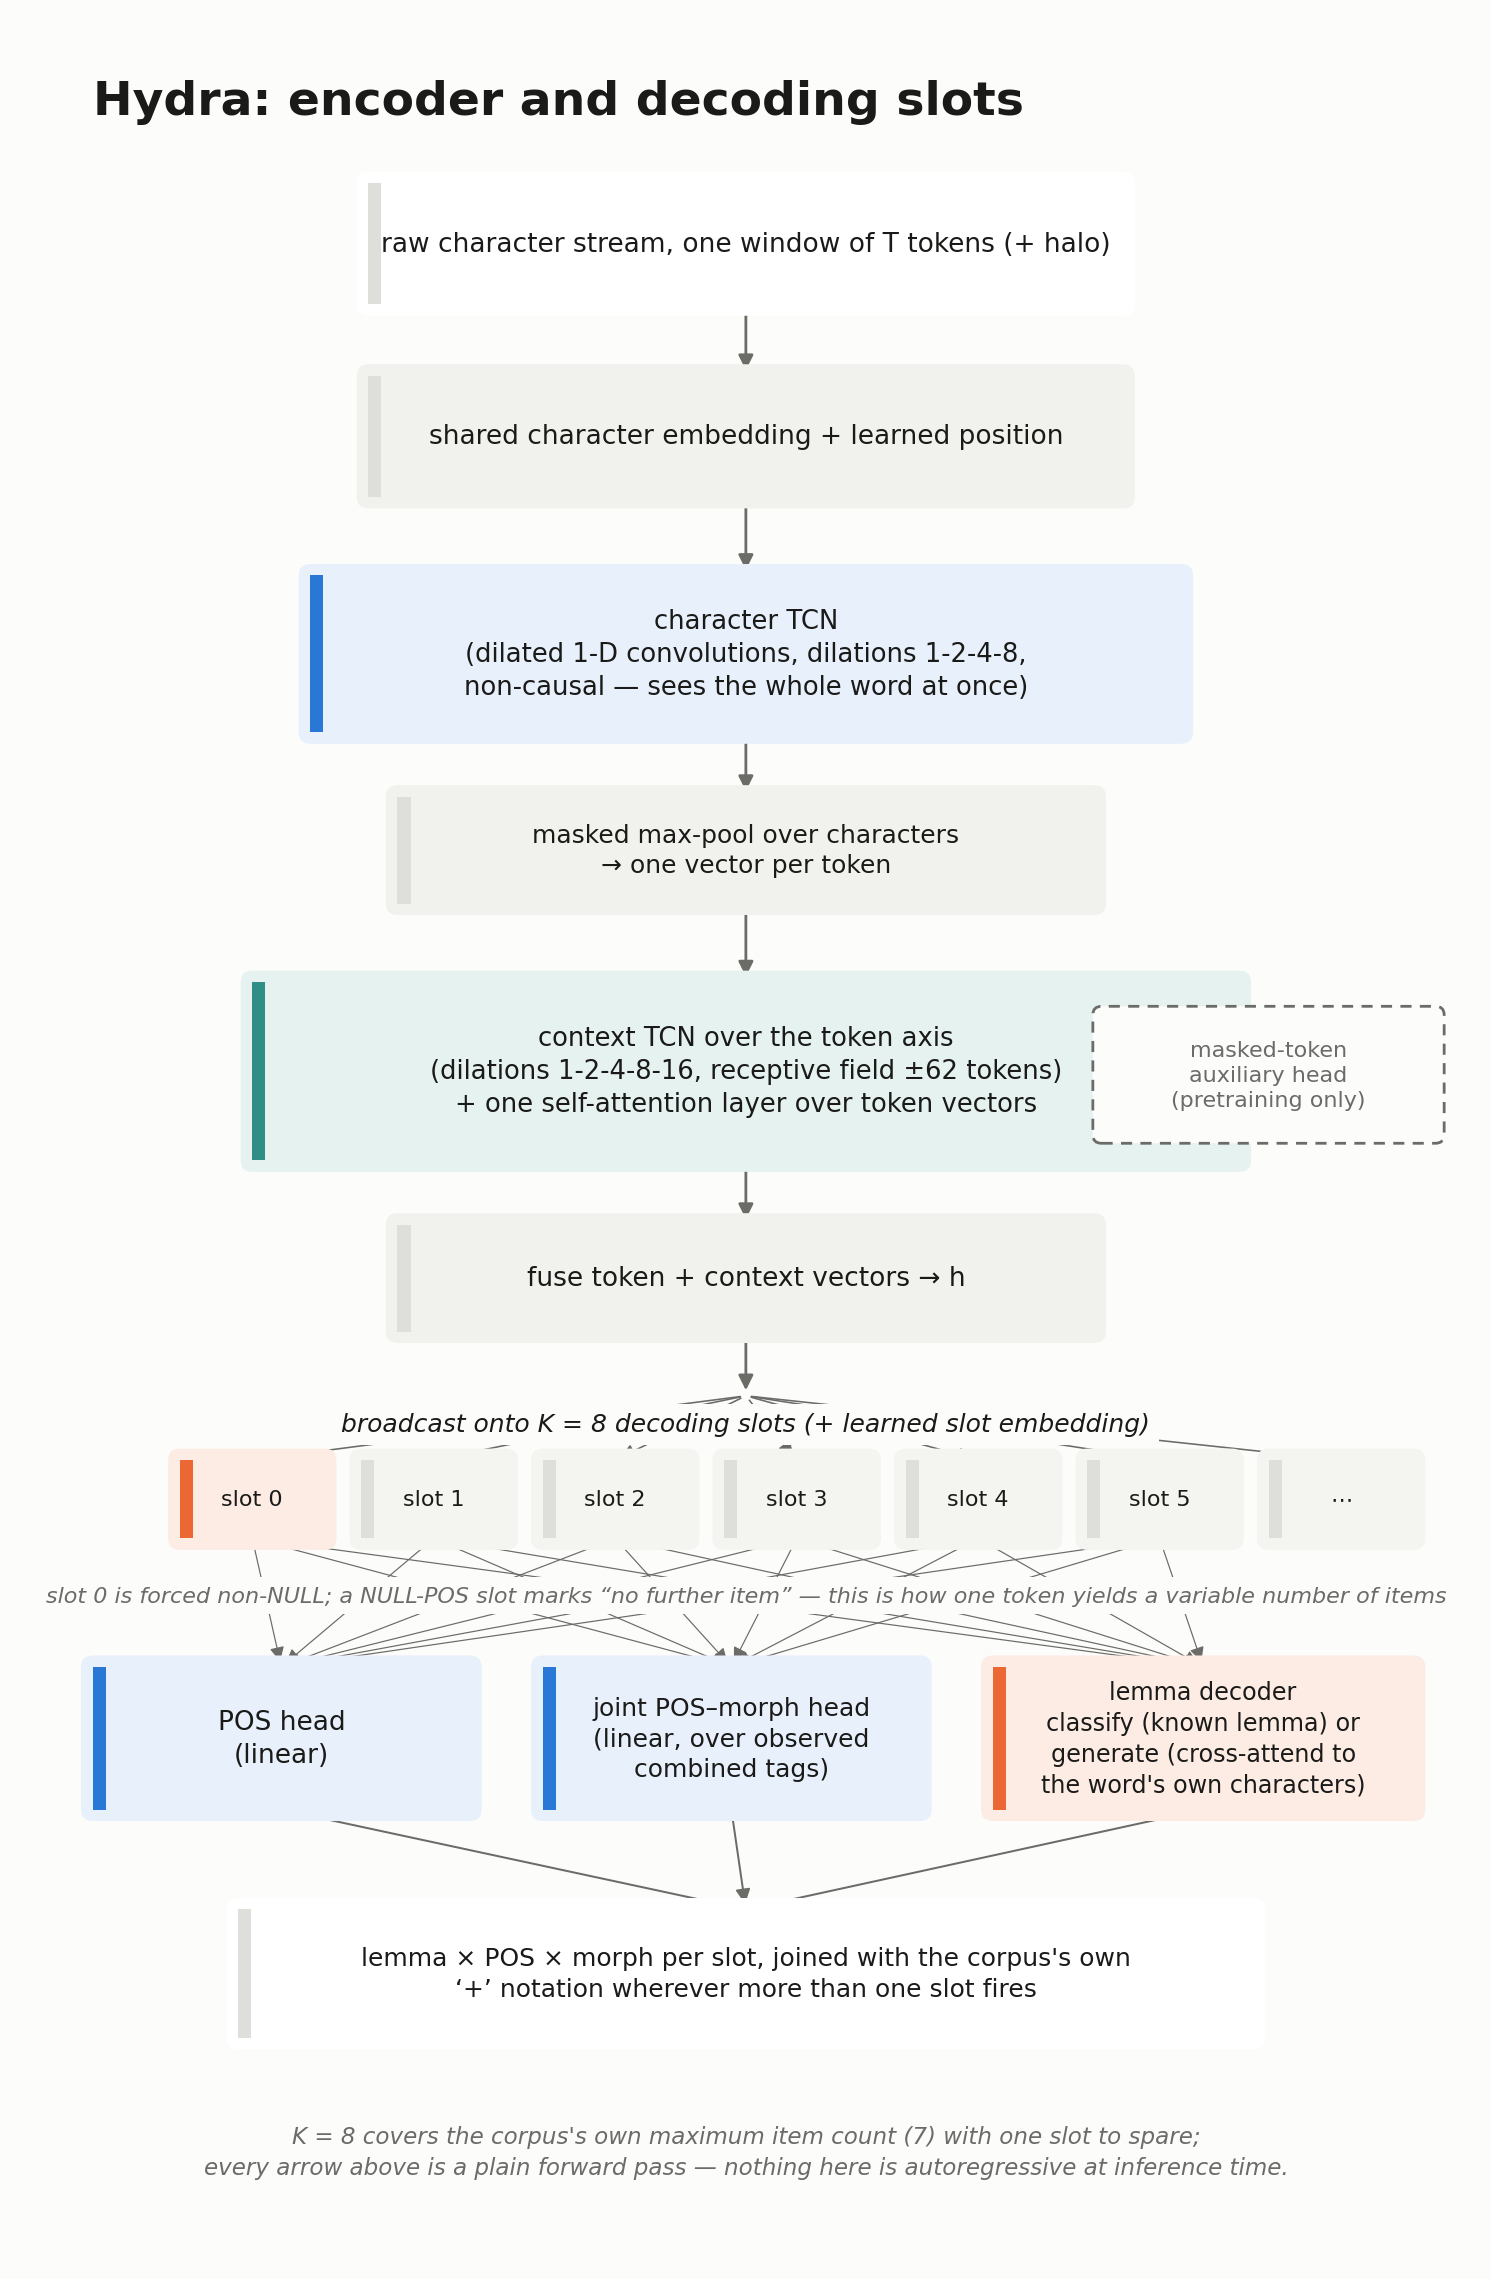
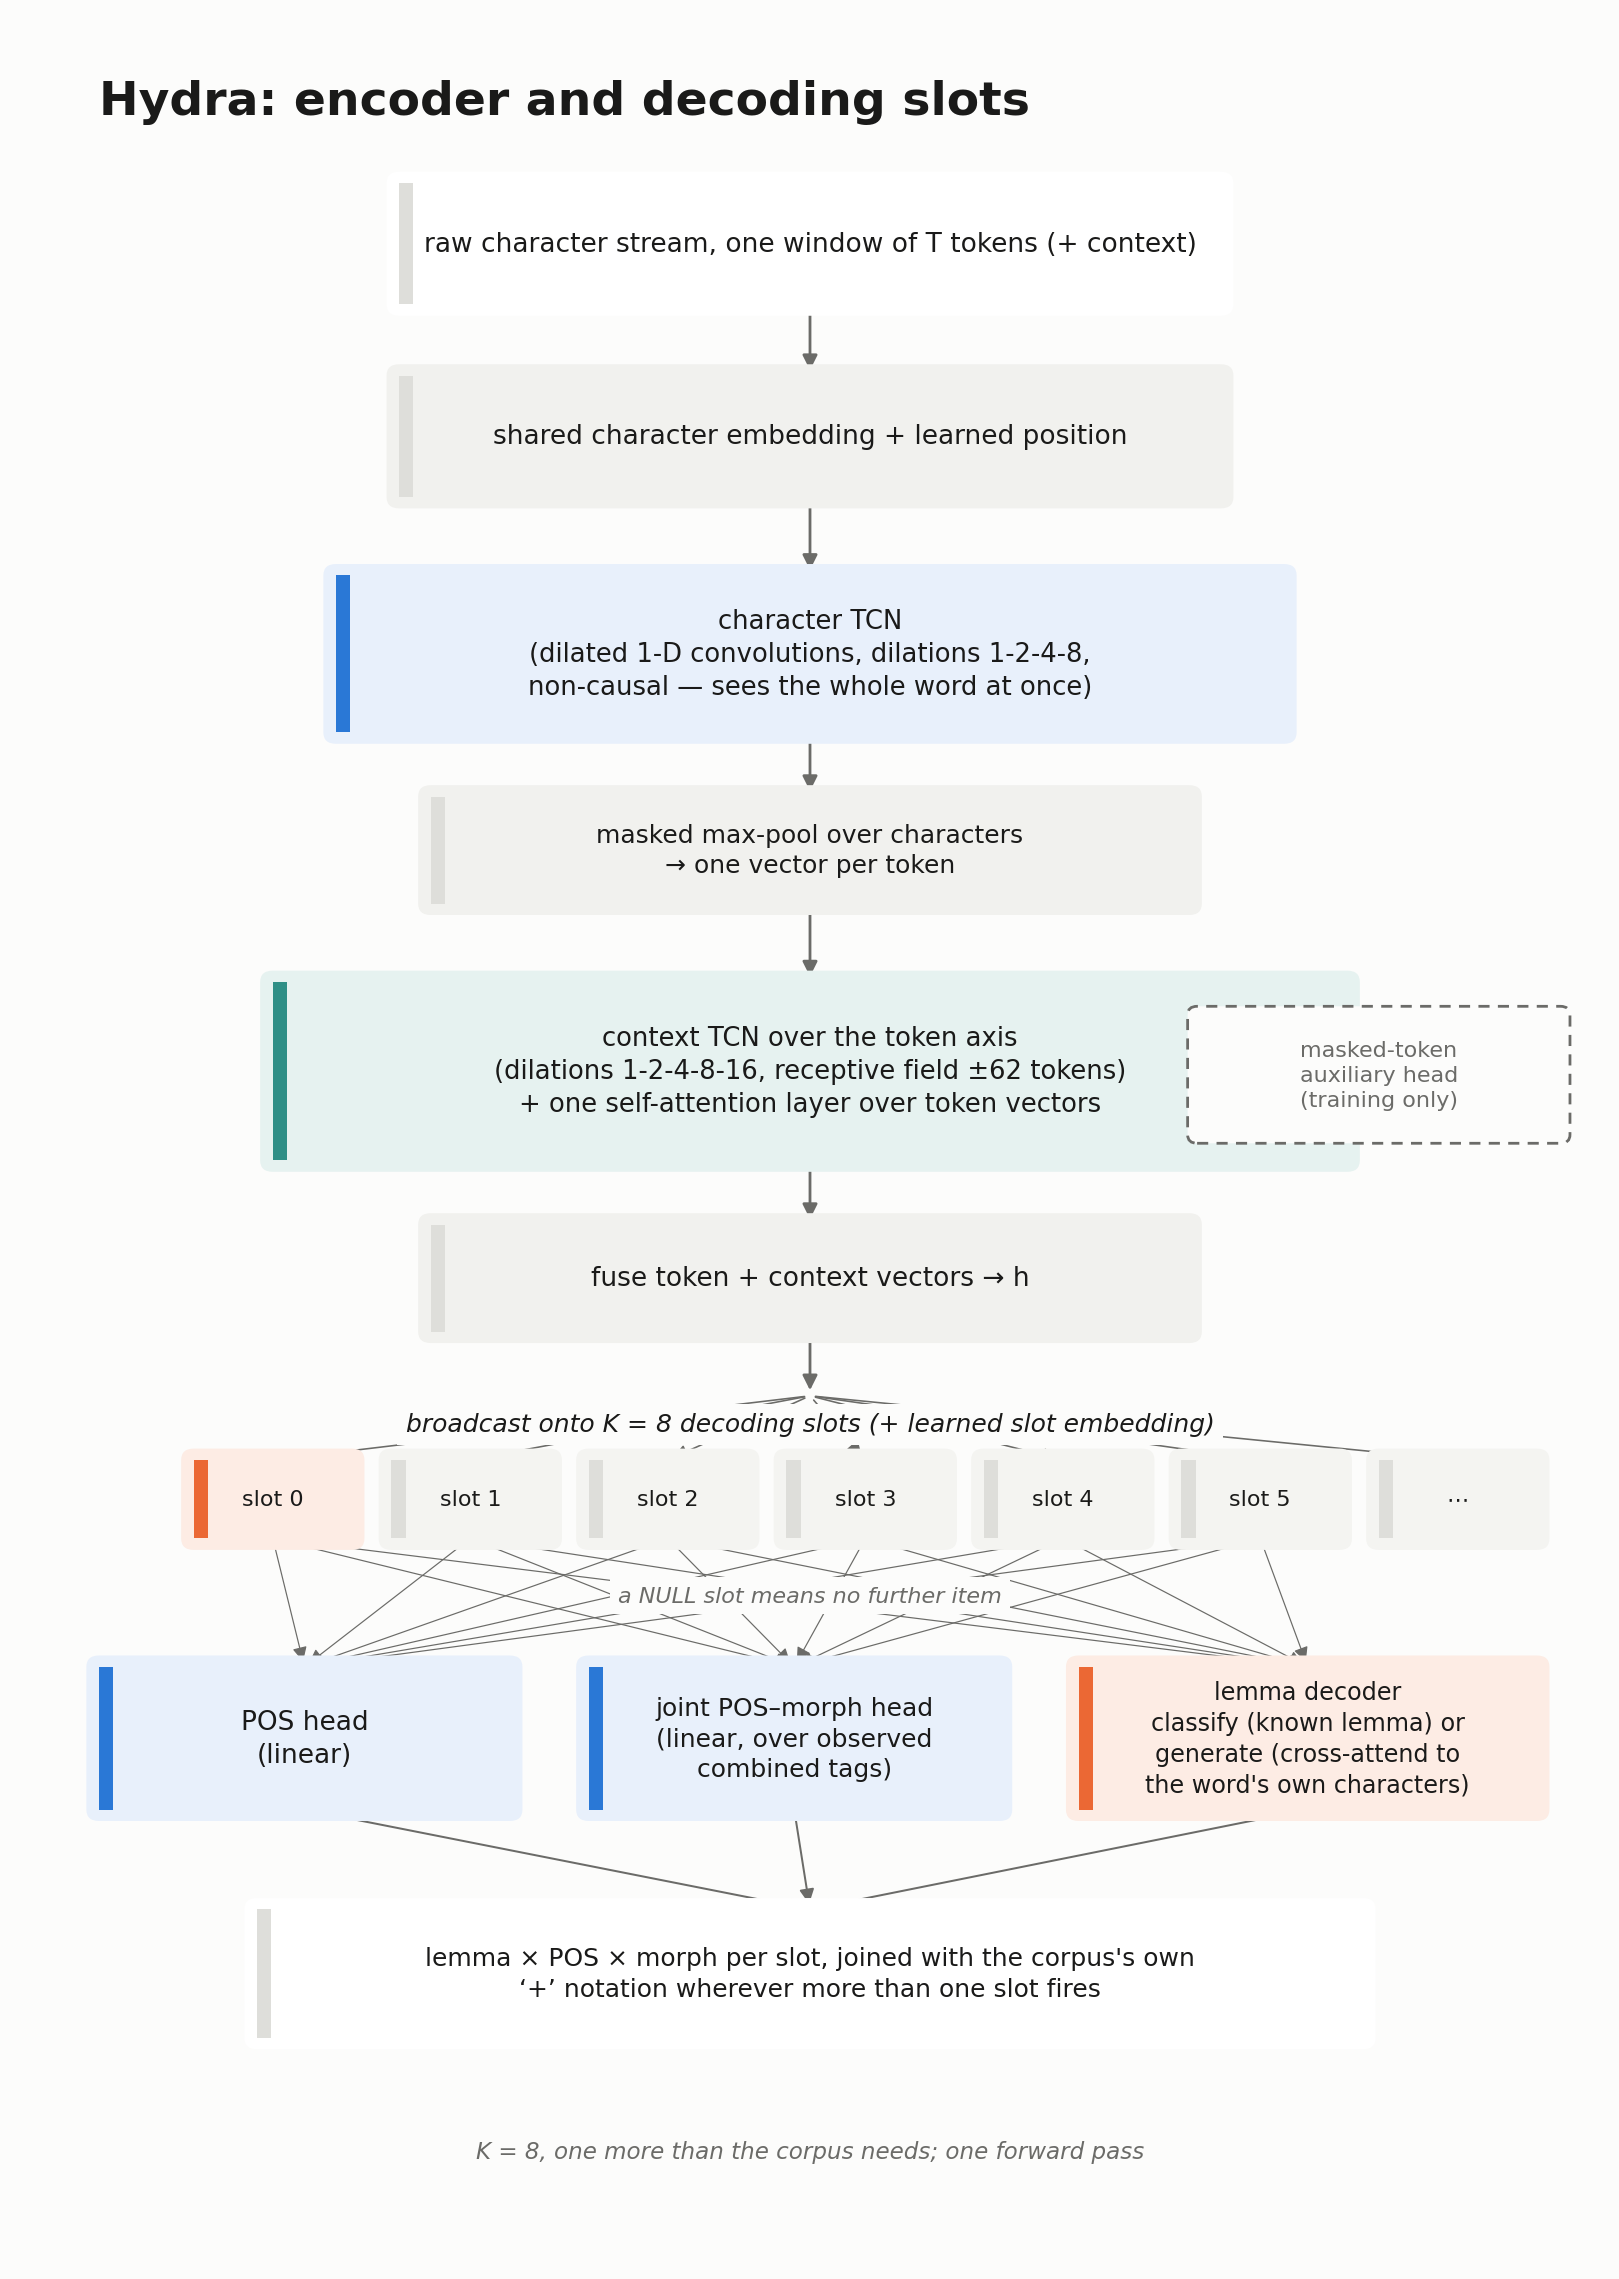
Refresh the README's figures, and a script so they stay refreshed
The three images under docs/figures were copied by hand in October and then
drifted from the drawings. The architecture one still labelled the
masked-token head "pretraining only" long after that was corrected, and the
other two were equally stale, because nothing connected the two directories.

tools/sync_readme_figures.py is that connection. It reads the list of what
to copy out of README.md itself, so a figure added to the README is picked
up without editing the script, and it exits non-zero if the README embeds
something the source directory cannot supply.

The architecture caption also said each slot has its own three heads. The
slots share them: one lemma head, one part-of-speech head, one joint tag
head, each reading every slot.

diff --git a/tools/sync_readme_figures.py b/tools/sync_readme_figures.py
@@ -1,0 +1,68 @@
+"""Refresh the figures README.md embeds from the directory that draws them.
+
+    python tools/sync_readme_figures.py ../journal/figures
+
+The three images under docs/figures are copies. They were taken by hand once
+and then drifted: the architecture figure in the README still labelled the
+masked-token head "pretraining only" weeks after the drawing had been
+corrected, because nothing connected the two directories. This script is that
+connection, and it reads the list of what to copy out of README.md itself, so
+a figure added to the README is picked up without editing anything here.
+
+Exits non-zero if the README asks for a figure the source directory does not
+have, which is the case worth catching: a README that embeds a file nobody
+generates any more.
+"""
+from __future__ import annotations
+
+import filecmp
+import re
+import shutil
+import sys
+from pathlib import Path
+
+ROOT = Path(__file__).resolve().parents[1]
+README = ROOT / "README.md"
+DEST = ROOT / "docs" / "figures"
+
+
+def wanted() -> list[str]:
+    """Every docs/figures/*.png the README embeds, in the order it uses them."""
+    text = README.read_text(encoding="utf-8")
+    return list(dict.fromkeys(re.findall(r"\(docs/figures/([^)]+\.png)\)", text)))
+
+
+def main(argv: list[str]) -> int:
+    if len(argv) != 1:
+        print(__doc__.strip().splitlines()[2].strip(), file=sys.stderr)
+        return 2
+    src = Path(argv[0]).expanduser().resolve()
+    if not src.is_dir():
+        print(f"not a directory: {src}", file=sys.stderr)
+        return 2
+
+    DEST.mkdir(parents=True, exist_ok=True)
+    missing, copied, same = [], [], []
+    for name in wanted():
+        source = src / name
+        target = DEST / name
+        if not source.exists():
+            missing.append(name)
+            continue
+        if target.exists() and filecmp.cmp(source, target, shallow=False):
+            same.append(name)
+            continue
+        shutil.copy2(source, target)
+        copied.append(name)
+
+    for name in copied:
+        print(f"updated docs/figures/{name}")
+    for name in same:
+        print(f"unchanged docs/figures/{name}")
+    for name in missing:
+        print(f"MISSING in {src}: {name}", file=sys.stderr)
+    return 1 if missing else 0
+
+
+if __name__ == "__main__":
+    raise SystemExit(main(sys.argv[1:]))

diff --git a/README.md b/README.md
@@ -76,7 +76,7 @@ and a character generator builds one from the surface, and a confidence
 threshold picks between them. A spelling the model has never met still gets a
 lemma.
 
-![Hydra's encoder and decoding slots: a shared character and context encoder feeds a fixed bank of K = 8 slots, each with its own lemma, part-of-speech and morphology head.](docs/figures/architecture.png)
+![Hydra's encoder and decoding slots: a shared character and context encoder feeds a fixed bank of K = 8 slots, every one of them read by the same three heads — lemma, part of speech, and the joint part-of-speech-and-morphology tag.](docs/figures/architecture.png)
 
 Two further objectives are optional and switch on from the config. A
 masked-token auxiliary lets unannotated transcription contribute to training,
@@ -433,7 +433,9 @@ and on tokens unseen in training (OOV), plus mean lemma Levenshtein distance.
 hydra/          the package: config, vocab, data, model, losses, metrics,
                 distributed, checkpoint, train, tag, evaluate, snap, noise,
                 hub (published-model download), cli
-docs/figures/   the figures this README embeds
+docs/figures/   the figures this README embeds; refresh them from the
+                directory that draws them with
+                tools/sync_readme_figures.py <dir>
 configs/        default.toml (full corpus), smoke.toml (6 files, 3 epochs),
                 and the stratified-protocol run configs, each paired with a
                 *_remote.toml variant for a rented GPU
